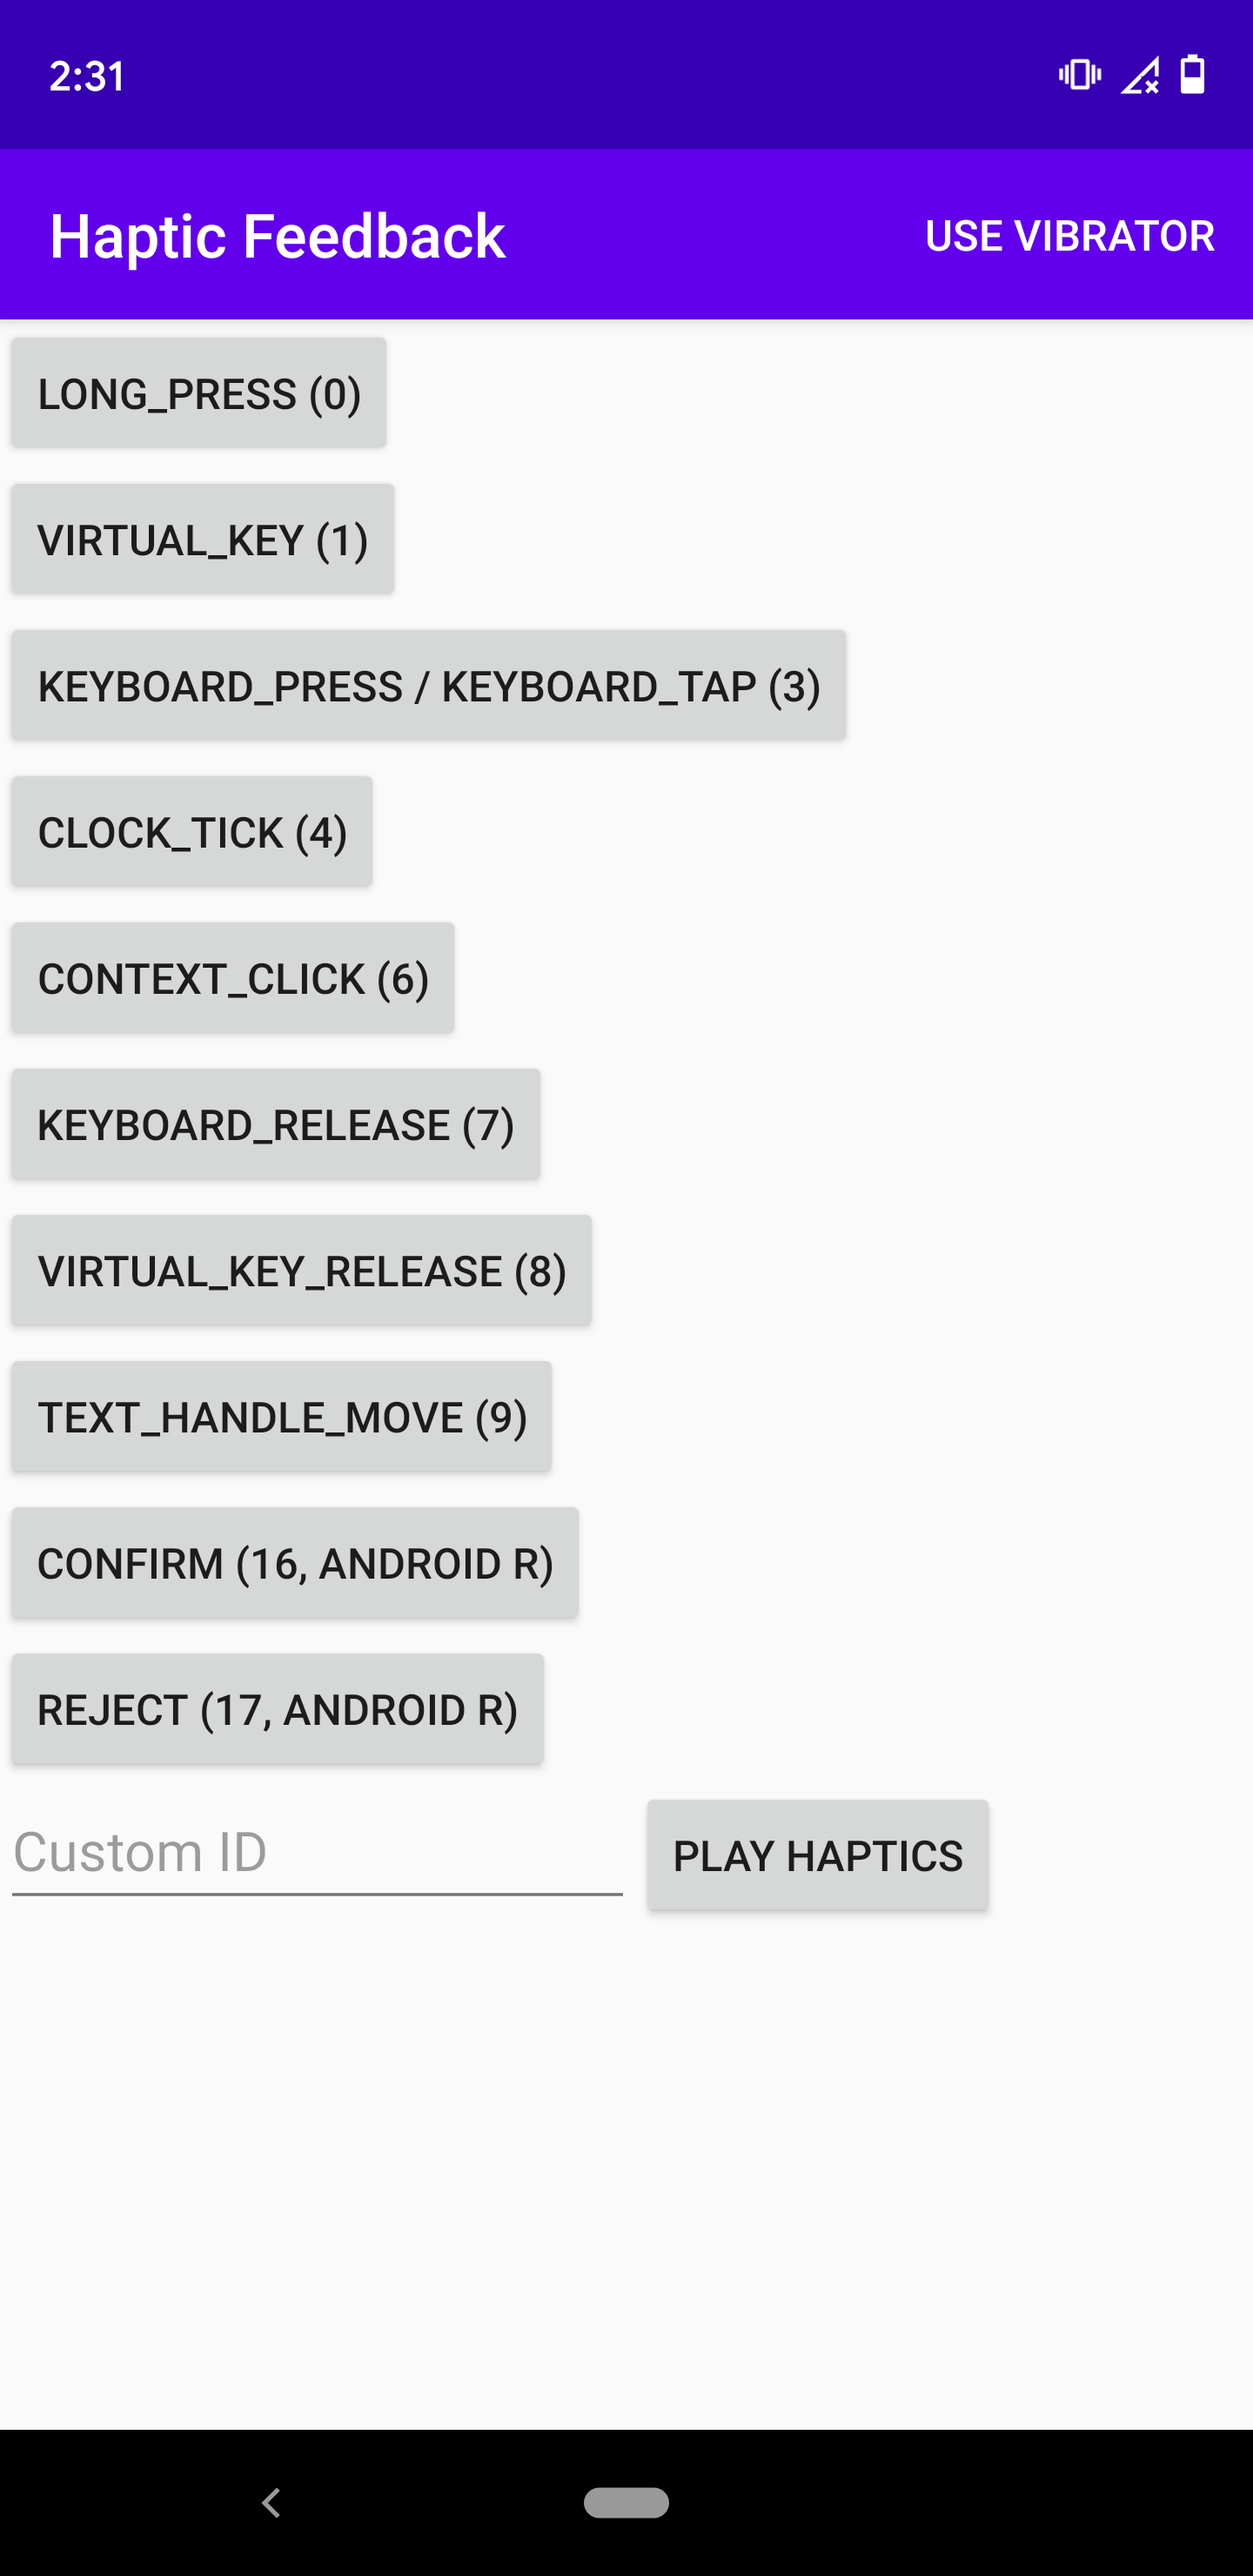
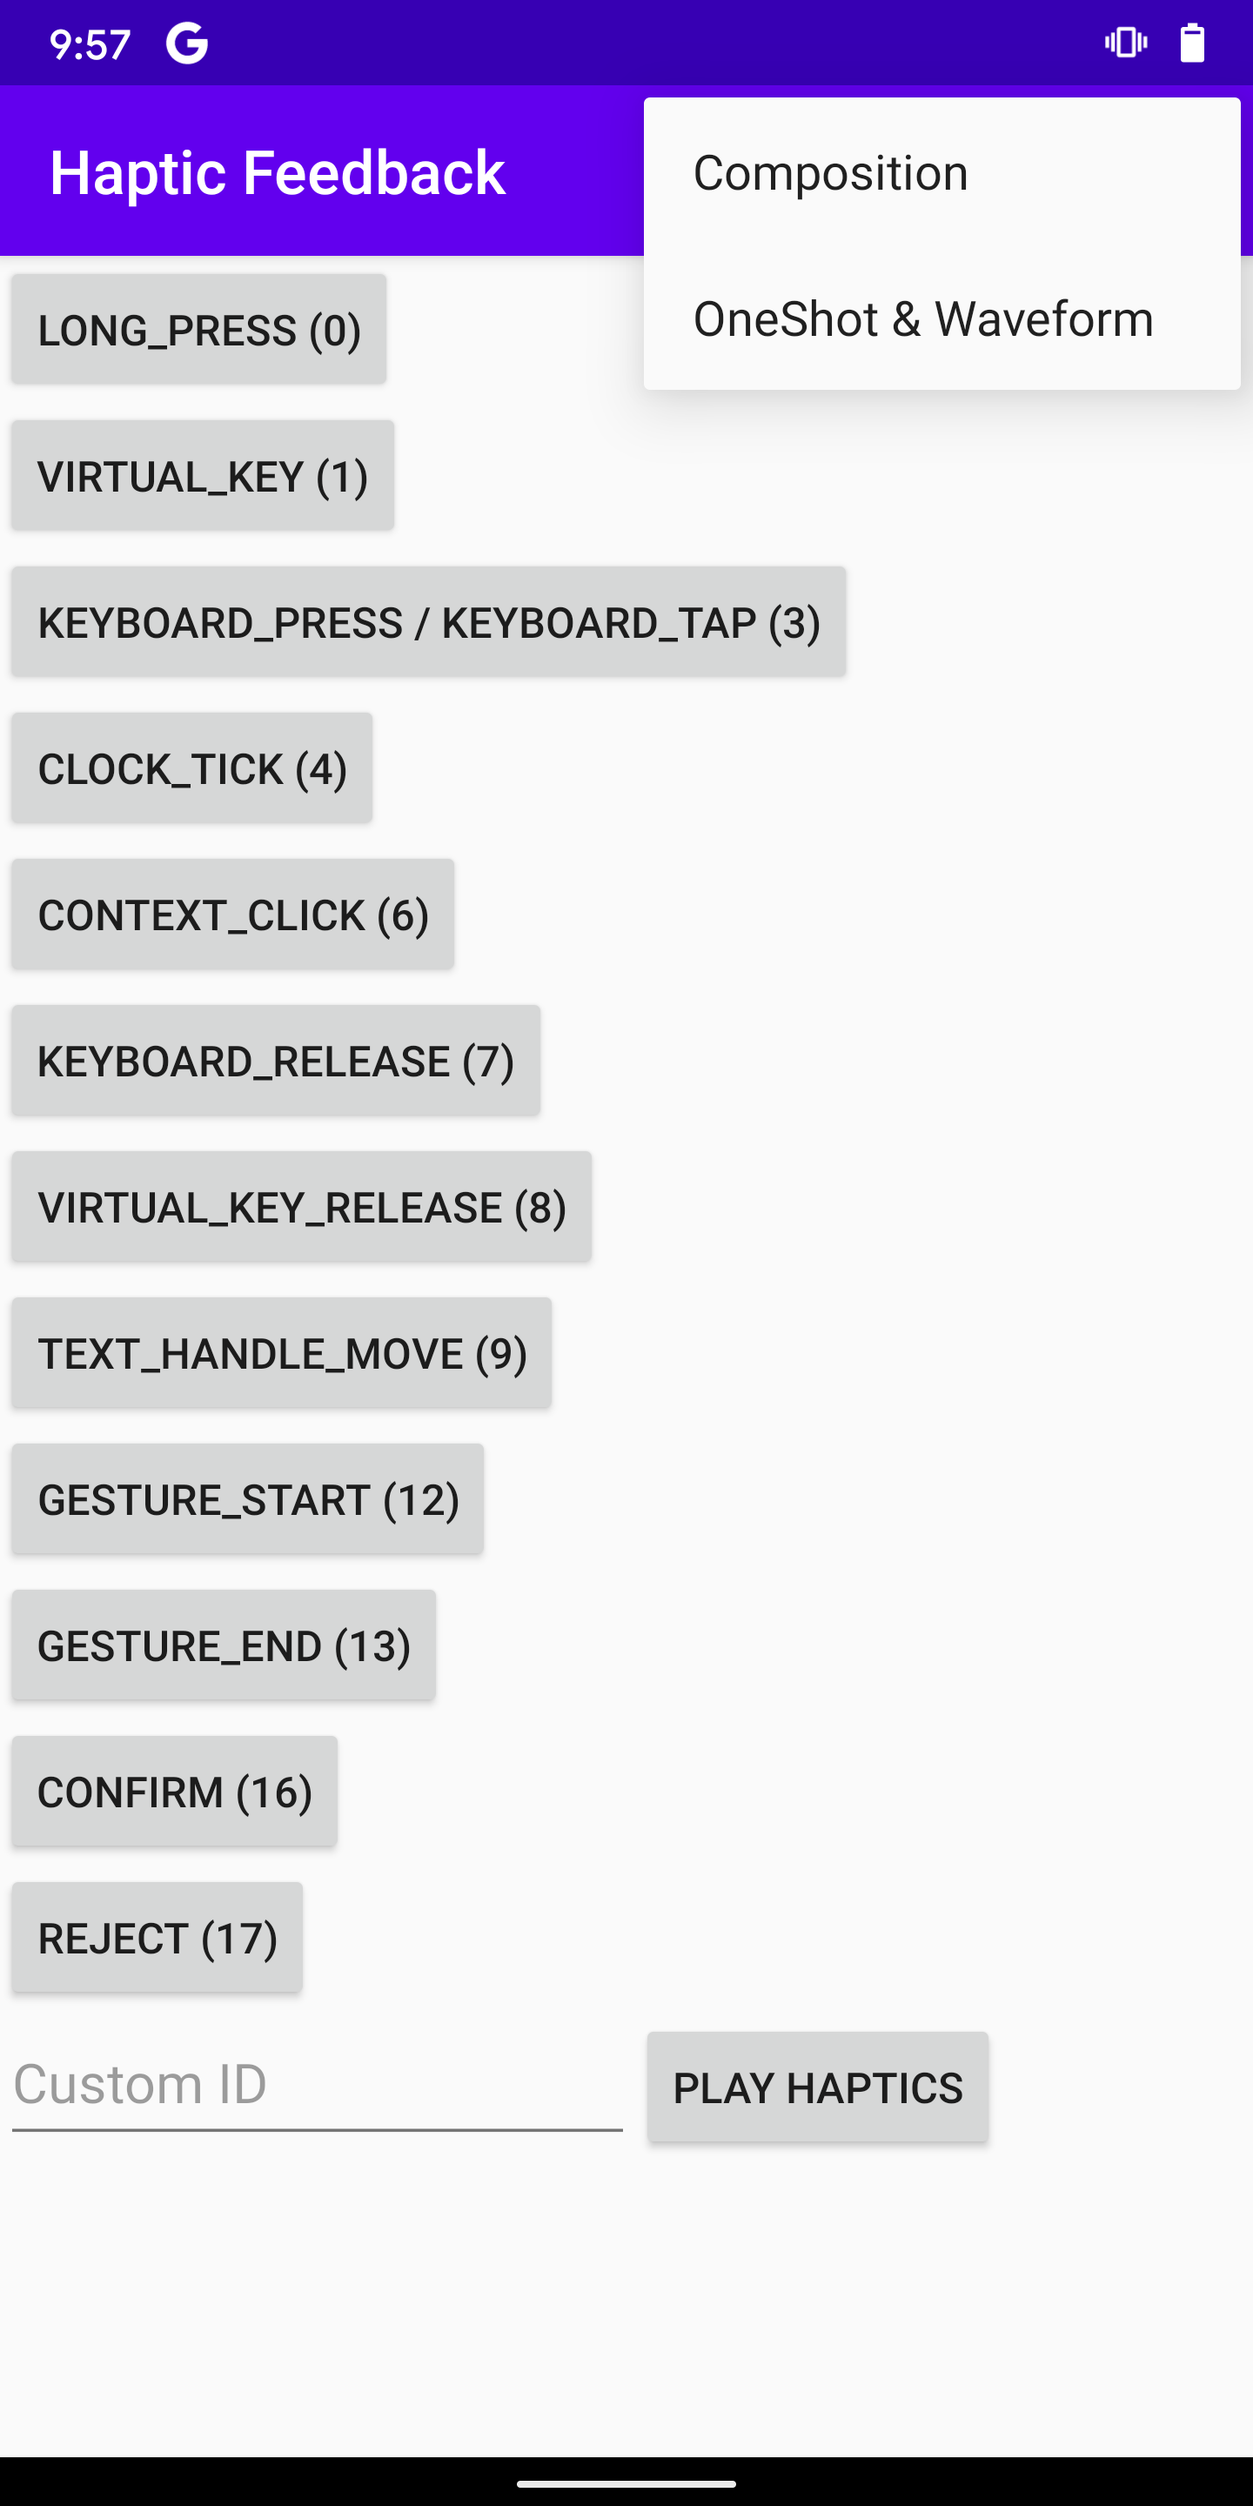
1. Implimented haptic primitives 2. Removed descriptions of Android R 3. Updated readme

diff --git a/app/src/main/java/com/pbb/study/hapticfeedback/CompositionActivity.kt b/app/src/main/java/com/pbb/study/hapticfeedback/CompositionActivity.kt
@@ -5,7 +5,6 @@ import androidx.appcompat.app.AppCompatActivity
 import android.os.Bundle
 import android.os.VibrationEffect
 import android.os.Vibrator
-import android.view.HapticFeedbackConstants
 import android.view.View
 import android.widget.Button
 import kotlinx.android.synthetic.main.activity_composition.*
@@ -29,14 +28,14 @@ class CompositionActivity : AppCompatActivity() {
             var compositon = VibrationEffect.startComposition()
 
             when (view.text.toString()) {
-                "PRIMITIVE_CLICK (1)" -> compositon = compositon.addPrimitive(VibrationEffect.Composition.PRIMITIVE_CLICK)
-                "PRIMITIVE_THUD (2, Android S)" -> compositon = compositon.addPrimitive(VibrationEffect.Composition.PRIMITIVE_THUD)
-                "PRIMITIVE_SPIN (3, Android S)" -> compositon = compositon.addPrimitive(VibrationEffect.Composition.PRIMITIVE_SPIN)
-                "PRIMITIVE_QUICK_RISE (4)" -> compositon = compositon.addPrimitive(VibrationEffect.Composition.PRIMITIVE_QUICK_RISE)
-                "PRIMITIVE_SLOW_RISE (5)" -> compositon = compositon.addPrimitive(VibrationEffect.Composition.PRIMITIVE_SLOW_RISE)
-                "PRIMITIVE_QUICK_FALL (6)" -> compositon = compositon.addPrimitive(VibrationEffect.Composition.PRIMITIVE_QUICK_FALL)
-                "PRIMITIVE_TICK (7)" -> compositon = compositon.addPrimitive(VibrationEffect.Composition.PRIMITIVE_TICK)
-                "PRIMITIVE_LOW_TICK (8, Android S)" -> compositon = compositon.addPrimitive(VibrationEffect.Composition.PRIMITIVE_LOW_TICK)
+                "PRIMITIVE_CLICK (1)" -> compositon.addPrimitive(VibrationEffect.Composition.PRIMITIVE_CLICK)
+                "PRIMITIVE_THUD (2, Android S)" -> compositon.addPrimitive(VibrationEffect.Composition.PRIMITIVE_THUD)
+                "PRIMITIVE_SPIN (3, Android S)" -> compositon.addPrimitive(VibrationEffect.Composition.PRIMITIVE_SPIN)
+                "PRIMITIVE_QUICK_RISE (4)" -> compositon.addPrimitive(VibrationEffect.Composition.PRIMITIVE_QUICK_RISE)
+                "PRIMITIVE_SLOW_RISE (5)" -> compositon.addPrimitive(VibrationEffect.Composition.PRIMITIVE_SLOW_RISE)
+                "PRIMITIVE_QUICK_FALL (6)" -> compositon.addPrimitive(VibrationEffect.Composition.PRIMITIVE_QUICK_FALL)
+                "PRIMITIVE_TICK (7)" -> compositon.addPrimitive(VibrationEffect.Composition.PRIMITIVE_TICK)
+                "PRIMITIVE_LOW_TICK (8, Android S)" -> compositon.addPrimitive(VibrationEffect.Composition.PRIMITIVE_LOW_TICK)
             }
 
             val viborationEffect = compositon.compose()

diff --git a/app/src/main/java/com/pbb/study/hapticfeedback/MainActivity.kt b/app/src/main/java/com/pbb/study/hapticfeedback/MainActivity.kt
@@ -3,10 +3,7 @@ package com.pbb.study.hapticfeedback
 import android.content.DialogInterface
 import android.content.Intent
 import android.os.Bundle
-import android.view.HapticFeedbackConstants
-import android.view.Menu
-import android.view.MenuItem
-import android.view.View
+import android.view.*
 import android.widget.Button
 import androidx.appcompat.app.AlertDialog
 import androidx.appcompat.app.AppCompatActivity
@@ -57,17 +54,10 @@ class MainActivity : AppCompatActivity() {
                 "KEYBOARD_RELEASE (7)" -> view.performHapticFeedback(HapticFeedbackConstants.KEYBOARD_RELEASE)
                 "VIRTUAL_KEY_RELEASE (8)" -> view.performHapticFeedback(HapticFeedbackConstants.VIRTUAL_KEY_RELEASE)
                 "TEXT_HANDLE_MOVE (9)" -> view.performHapticFeedback(HapticFeedbackConstants.TEXT_HANDLE_MOVE)
-            }
-        }
-    }
-
-    fun performAndroidRHaptics (view: View) {
-        if (view is Button) {
-            when (view.text.toString()) {
-                "GESTURE_START (12, Android R)" -> view.performHapticFeedback(12)
-                "GESTURE_END (13, Android R)" -> view.performHapticFeedback(13)
-                "CONFIRM (16, Android R)" -> view.performHapticFeedback(16)
-                "REJECT (17, Android R)" -> view.performHapticFeedback(17)
+                "GESTURE_START (12)" -> view.performHapticFeedback(HapticFeedbackConstants.GESTURE_START)
+                "GESTURE_END (13)" -> view.performHapticFeedback(HapticFeedbackConstants.GESTURE_END)
+                "CONFIRM (16)" -> view.performHapticFeedback(HapticFeedbackConstants.CONFIRM)
+                "REJECT (17)" -> view.performHapticFeedback(HapticFeedbackConstants.REJECT)
             }
         }
     }

diff --git a/README.md b/README.md
@@ -1,21 +1,32 @@
 # AndroidHapticFeedbackTest
-An app to test haptic feedback on Android. If you need to compose haptics feedbacks or vibration effects, this app is a good start.
+An app to test haptic feedbacks on Android. If you need to compose haptic feedbacks or vibration effects, this app is a good start.
 
-Note that haptics feedbacks and vibration effects behave dramatically differently on devices from different vendors with Pixel series showing the best behaviors. Be sure to test on the devices that your products will support and this is the main reason why I started this app.
+Note that haptic feedbacks and vibration effects behave dramatically differently on devices from different vendors with Pixel series showing the best behaviors. Be sure to test on the devices that your products will support and this is the main reason why I started this app.
+
+## Read First
+There are official Android documents talking about haptics in detail: [Haptics](https://source.android.com/devices/input/haptics). You should read them first to know the basics about haptics and what you can do with those APIs, before using this app to get hands on the actual feeling of the haptics.
+
+There are three ways to orchestrate haptic patterns: 
+- **Haptic Feedback**: suitable for input events (like long press, or swipe), or UI elements (like keyboard).
+- **OneShot & Waveform**: suitable for more refined vibration patterns that last over time.
+- **Composition**: According to the documents, compositions enable stringing together sequences of more nuanced haptics or vibarations. However, none of the devices I tested supports this feature including Pixel 5, so in this app you can only try the primitive haptics instead of composing them.
 
 ## Haptics
+- Uses [View#performHapticFeedback](https://developer.android.com/reference/android/view/View#performHapticFeedback(int)).
+- You can test each one of [HapticFeedbackConstants](https://developer.android.com/reference/android/view/HapticFeedbackConstants).
+- You can test hidden haptics using HapticFeedback ID (can be found in the HapticFeedbackConstants.java, such as [this one](https://cs.android.com/android/platform/superproject/+/master:frameworks/base/core/java/android/view/HapticFeedbackConstants.java)).
 
-1. Uses [View#performHapticFeedback](https://developer.android.com/reference/android/view/View#performHapticFeedback(int))
-2. You can test each one of [HapticFeedbackConstants](https://developer.android.com/reference/android/view/HapticFeedbackConstants)
-3. You can test hidden haptics using HapticFeedback ID (can be found in the HapticFeedbackConstants.java, such as [this one](https://cs.android.com/android/platform/superproject/+/master:frameworks/base/core/java/android/view/HapticFeedbackConstants.java))
+## OneShot & Waveform
+- Uses [VibrationEffect](https://developer.android.com/reference/android/os/VibrationEffect).
+- Supports OneShot, Predefined and Waveform effects.
 
-## Vibrator
-1. Uses [Vibrator](https://developer.android.com/reference/android/os/Vibrator)
-2. Supports OneShot, Predefined and Waveform [vibration effects](https://developer.android.com/reference/android/os/VibrationEffect).
+## Composition
+- Uses [VibrationEffect.Composition](https://developer.android.com/reference/kotlin/android/os/VibrationEffect.Composition).
+- You can test all haptic primitives *which I failed to feel on all the devices available to me*.
+- If your devices support any haptic primitives, feel free to contact me.
 
 ## Some Notes
-This app doesn't have any data validation, so the app just crashes if the data can't be parsed. I'm very new to Android development and Kotlin, and this app is just for testing purposes, so this won't be optimized in the near future.
-
+This app doesn't have any data validation, so the app just crashes if the data can't be parsed. And the code is really a mess as a result of my unfamiliarity with Android development and Kotlin.
 
 ## Screenshots
-<img src="https://raw.githubusercontent.com/PBBB/AndroidHapticFeedbackTest/master/readme/Haptics.png" width="360">   <img src="https://raw.githubusercontent.com/PBBB/AndroidHapticFeedbackTest/master/readme/Vibrator.png" width="360">
+<img src="https://raw.githubusercontent.com/PBBB/AndroidHapticFeedbackTest/master/readme/Haptics.png" width="360">   <img src="https://raw.githubusercontent.com/PBBB/AndroidHapticFeedbackTest/master/readme/OneShotWaveform.png" width="360">   <img src="https://raw.githubusercontent.com/PBBB/AndroidHapticFeedbackTest/master/readme/Composition.png" width="360">
